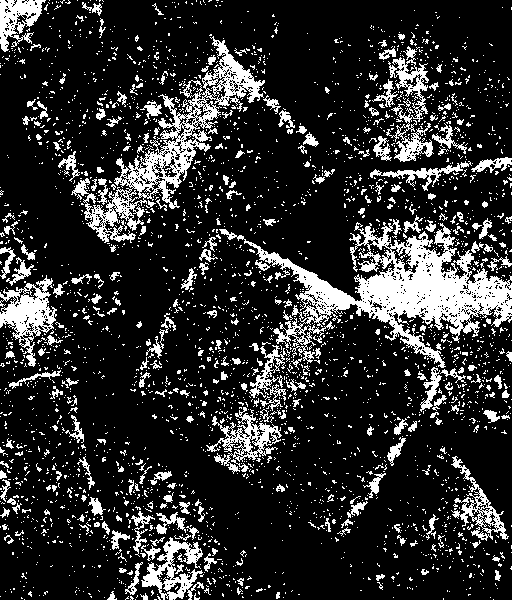
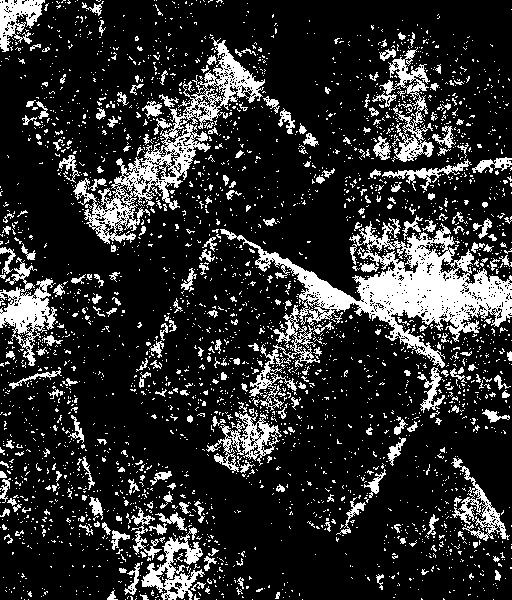
i

diff --git a/code/matlab/rtv_EAP_auto/eap.m b/code/matlab/rtv_EAP_auto/eap.m
@@ -1,0 +1,25 @@
+function output = eap(imgr,u,func)
+img = double(imgr);
+[height, width, ~]=size(img); 
+mask = rand(height, width);
+mask(mask < 0.5) = 0;
+mask(mask > 0) = 255;
+eps_weight = 1.0;
+for k=1:5
+    disp(k);
+    output=func(img, repmat(mask, [1, 1, 3]));
+    imwrite(mask, 'mask.png');
+    imwrite(output, 'output.png');
+    value = sum((output - img).^2,3);
+    weight = sum((output - imboxfilt(output,3)).^2,3);
+    knapsack = value./(weight + eps_weight);
+    thre = sort(knapsack(:));
+    thre = thre(int64(double(height*width)*(1.0 - double(k) * u / 5.0)));
+    knapsack = knapsack./thre;
+    mask = ones(height, width);
+    alpha = double(5 - k)./4.0;
+    mask(rand(height, width).*alpha +1.0-alpha<knapsack) = 255;
+    mask(mask < 255) = 0;
+end
+end
+

diff --git a/code/matlab/rtv_EAP_auto/run.m b/code/matlab/rtv_EAP_auto/run.m
@@ -1,0 +1,3 @@
+img=imread('input.png');
+output=eap(img, 0.1, @(a, b)tsmooth(a, b, 0.015, 3));
+imwrite(output, 'output.png');
